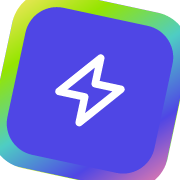
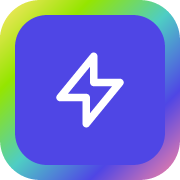
アイコンの12°回転を削除して正面向きに修正
- app/icon.tsx: transform rotate(12deg) を削除
- app/apple-icon.tsx: transform rotate(12deg) を削除
- public/icon-192.svg, icon-512.svg: rotate(12 256 256) を削除
- 静的PNG (icon-192, icon-512, apple-touch-icon) を再生成

diff --git a/app/apple-icon.tsx b/app/apple-icon.tsx
@@ -30,7 +30,6 @@ export default function AppleIcon() {
                         justifyContent: 'center',
                         background: 'linear-gradient(135deg, #FFE66D 0%, #95E500 25%, #4ECDC4 50%, #4F46E5 75%, #FF85A2 100%)',
                         borderRadius: '40px',
-                        transform: 'rotate(12deg)',
                     }}
                 >
                     {/* Indigo 内側背景 */}

diff --git a/app/icon.tsx b/app/icon.tsx
@@ -31,7 +31,6 @@ export default function Icon() {
                         justifyContent: 'center',
                         background: 'linear-gradient(135deg, #FFE66D 0%, #95E500 25%, #4ECDC4 50%, #4F46E5 75%, #FF85A2 100%)',
                         borderRadius: '8px',
-                        transform: 'rotate(12deg)',
                     }}
                 >
                     {/* Indigo 内側背景 */}
